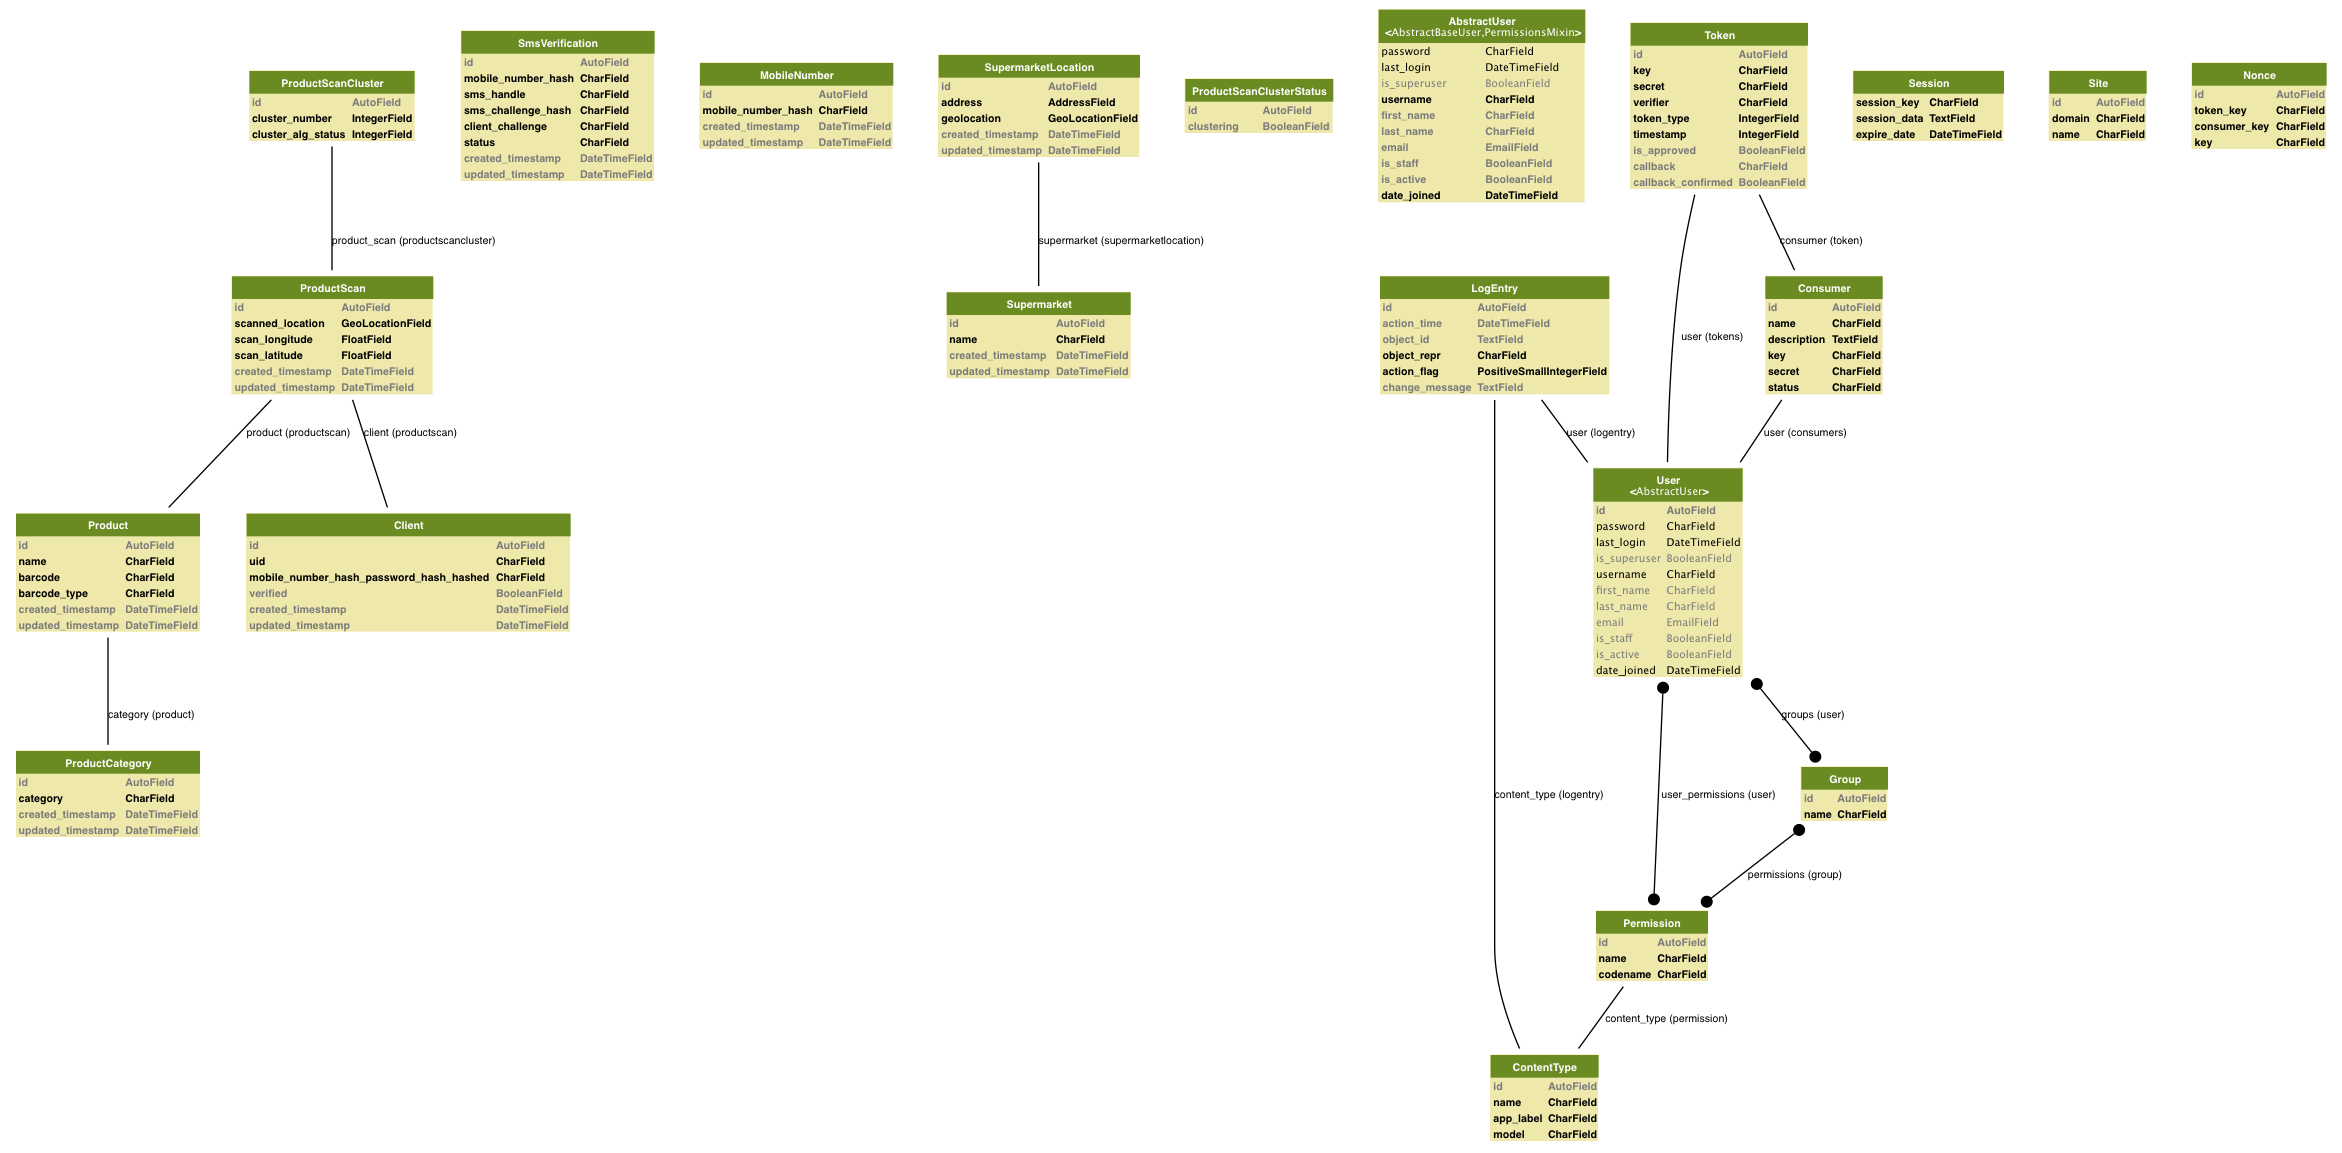
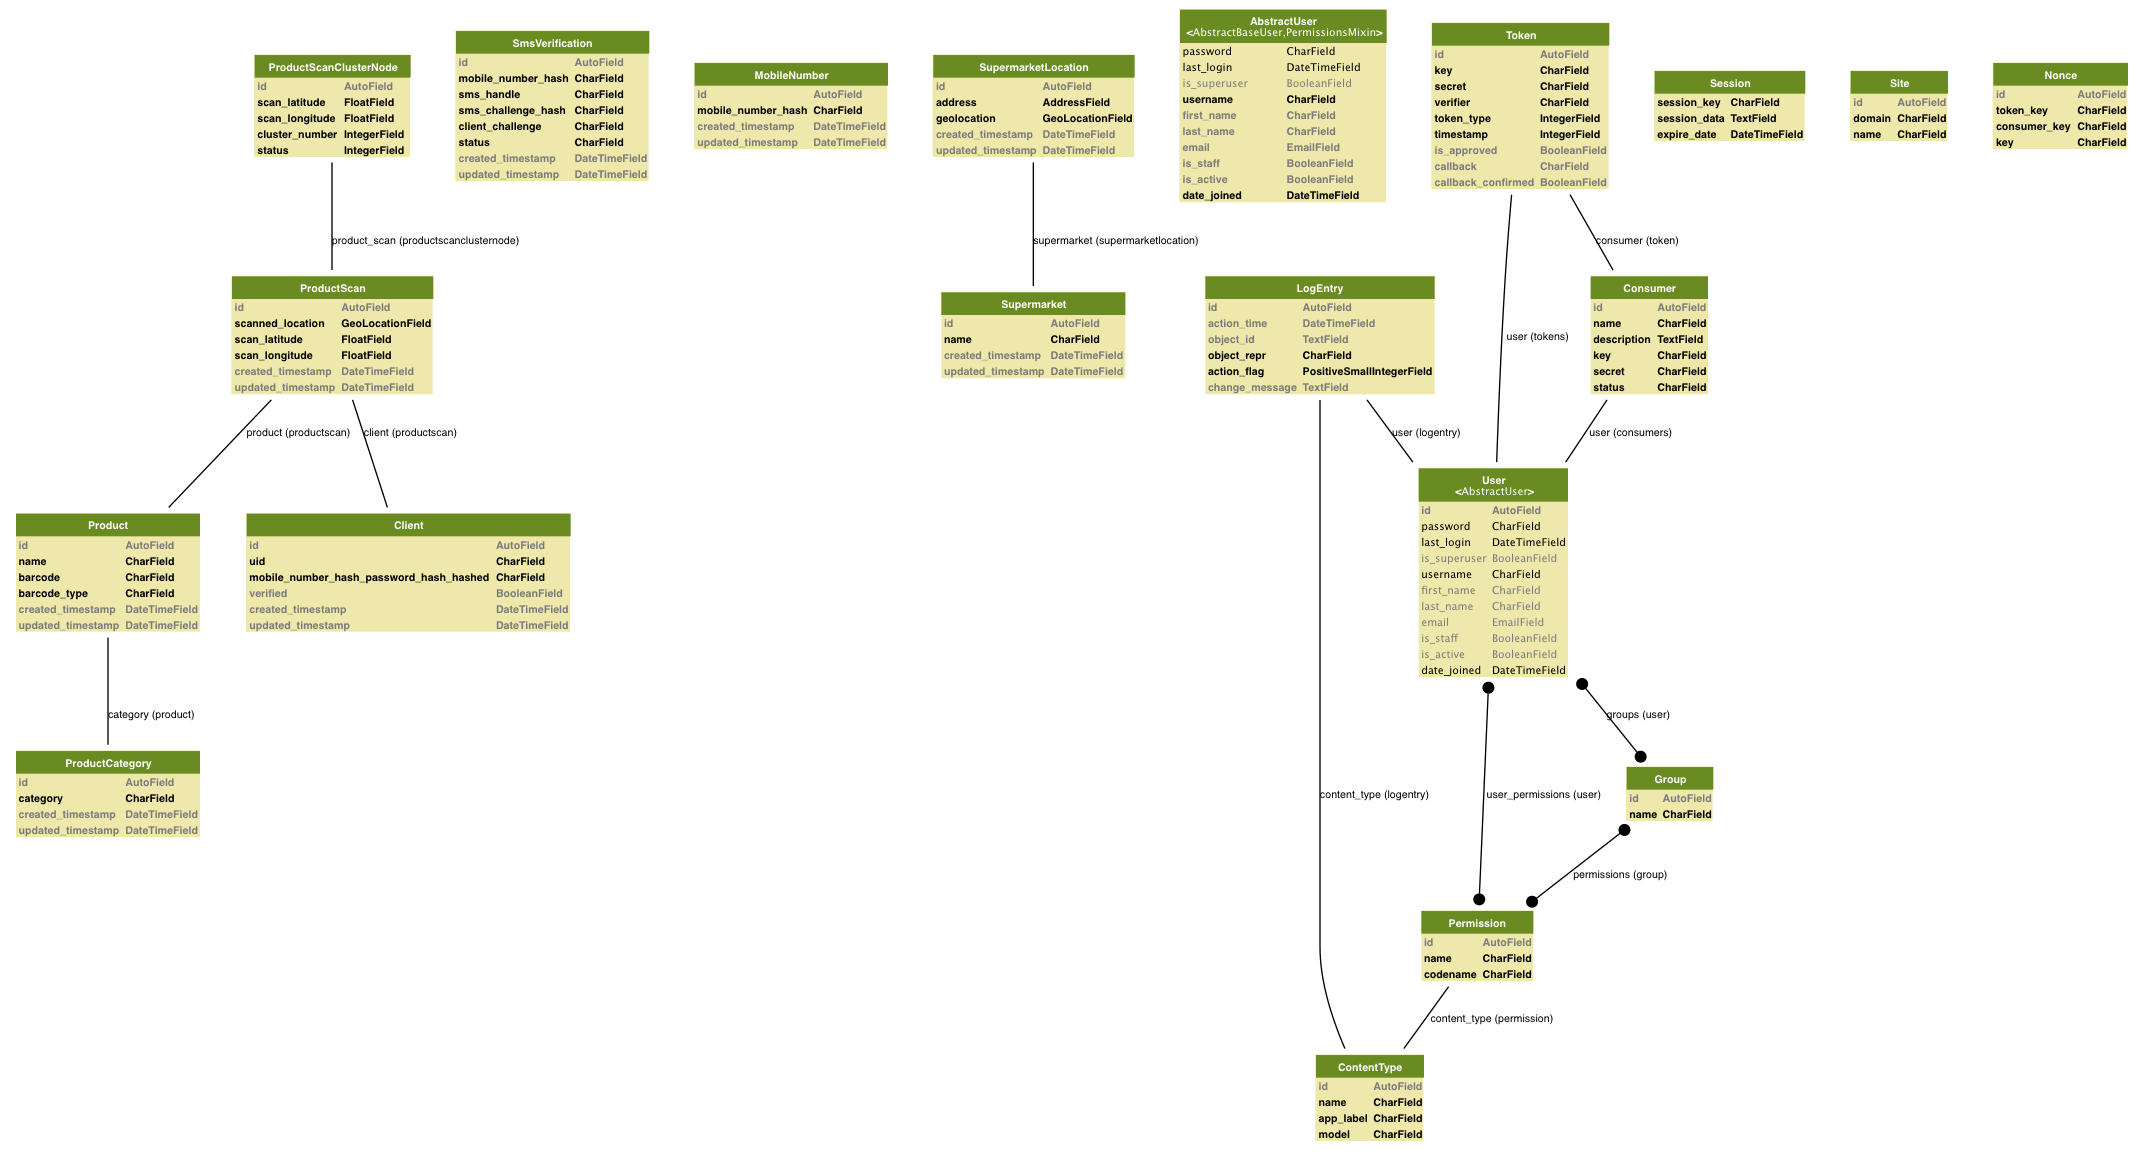
Clustering iteration

diff --git a/etiktak/model/products/models.py b/etiktak/model/products/models.py
@@ -25,6 +25,8 @@
 # (INCLUDING NEGLIGENCE OR OTHERWISE) ARISING IN ANY WAY OUT OF THE USE OF THIS
 # SOFTWARE, EVEN IF ADVISED OF THE POSSIBILITY OF SUCH DAMAGE.
 
+import math
+
 from django.db import models
 from django_google_maps import fields as map_fields
 
@@ -90,8 +92,8 @@ class Product(models.Model):
 class ProductScan(models.Model):
     product = models.ForeignKey(Product)
     scanned_location = map_fields.GeoLocationField(max_length=100)
-    scan_longitude = models.FloatField()
     scan_latitude = models.FloatField()
+    scan_longitude = models.FloatField()
     client = models.ForeignKey(clients.Client)
     created_timestamp = models.DateTimeField(auto_now_add=True)
     updated_timestamp = models.DateTimeField(auto_now=True)
@@ -107,7 +109,7 @@ class ProductScan(models.Model):
         scan = ProductScan(product=product, client=client, scanned_location=scan_latitude + ", " + scan_longitude,
                            scan_latitude=scan_latitude, scan_longitude=scan_longitude)
         scan.save()
-        ProductScanCluster.create_product_scan_cluster(product_scan=scan)
+        ProductScanClusterNode.create_product_scan_cluster_node(product_scan=scan)
         return scan
 
     def __unicode__(self):
@@ -119,28 +121,66 @@ class ProductScan(models.Model):
 
 
 
-CLUSTER_ALG_STATUS = util.enum(NOT_VISITED=0, VISITED=1, NOISE=2)
+CLUSTER_NODE_STATUS = util.enum(NOT_VISITED=0, VISITED=1, BEING_PROCESSED=2, NOISE=3)
 
-class ProductScanClusterStatus(models.Model):
-    clustering = models.BooleanField(default=False)
+NEIGHBORHOOD_EPSILON = 15.0
+NEIGHBORHOOD_MIN_DENSITY = 3
 
-class ProductScanCluster(models.Model):
+class ProductScanClusterNodeManager(models.Manager):
+    def get_next_node(self):
+        nodes = self.filter(status=CLUSTER_NODE_STATUS.NOT_VISITED)
+        if nodes is None or len(nodes) == 0:
+            return None
+        node = nodes[0]
+        node.status = CLUSTER_NODE_STATUS.BEING_PROCESSED
+        node.save()
+        return node
+
+    def get_neighborhood_nodes(self, node):
+        nodes = self.filter(scan_latitude__ge=node.scan_latitude - NEIGHBORHOOD_EPSILON,
+                            scan_latitude__le=node.scan_latitude - NEIGHBORHOOD_EPSILON,
+                            scan_longitude__ge=node.scan_longitude - NEIGHBORHOOD_EPSILON,
+                            scan_longitude__le=node.scan_longitude - NEIGHBORHOOD_EPSILON)
+        if nodes is None or len(nodes) == 0:
+            return []
+        density_nodes = []
+        for n in nodes:
+            if self.squared_distance_in_meters(node, n) <= NEIGHBORHOOD_EPSILON*NEIGHBORHOOD_EPSILON:
+                density_nodes.append(n)
+                if n.status is CLUSTER_NODE_STATUS.NOT_VISITED:
+                    n.status = CLUSTER_NODE_STATUS.BEING_PROCESSED
+                    n.save()
+        return density_nodes
+
+    def squared_distance_in_meters(self, n1, n2):
+        latitude_delta_meters = util.latitude_to_meters(n1.scan_latitude) -\
+                                util.latitude_to_meters(n2.scan_latitude)
+        longitude_delta_meters = util.longitude_to_meters(n1.scan_longitude, n1.scan_latitude) -\
+                                 util.longitude_to_meters(n2.scan_longitude, n2.scan_latitude)
+        return latitude_delta_meters*latitude_delta_meters + longitude_delta_meters*longitude_delta_meters
+
+class ProductScanClusterNode(models.Model):
     product_scan = models.ForeignKey(ProductScan)
+    scan_latitude = models.FloatField()
+    scan_longitude = models.FloatField()
     cluster_number = models.IntegerField()
-    cluster_alg_status = models.IntegerField()
+    status = models.IntegerField()
+
+    objects = ProductScanClusterNodeManager()
 
     @staticmethod
-    def create_product_scan_cluster(product_scan):
+    def create_product_scan_cluster_node(product_scan):
         """
         Creates and saves a product scan location cluster with initial cluster set to
         unknown.
         """
-        scan = ProductScanCluster(product_scan=product_scan, cluster_alg_status=CLUSTER_ALG_STATUS.NOT_VISITED, cluster_number=-1)
+        scan = ProductScanClusterNode(product_scan=product_scan, status=CLUSTER_NODE_STATUS.NOT_VISITED, cluster_number=-1,
+                                      scan_latitude=product_scan.scan_latitude, scan_longitude=product_scan.scan_longitude)
         scan.save()
         return scan
 
     def __unicode__(self):
-        return u"%s | %s" % (self.cluster_number, self.cluster_status)
+        return u"%s | %s | (%s, %s)" % (self.cluster_number, self.status, self.scan_latitude, self.scan_longitude)
 
     class Meta:
         verbose_name = u"Produktscanning"

diff --git a/features/steps/cluster_steps.py b/features/steps/cluster_steps.py
@@ -25,13 +25,20 @@
 # (INCLUDING NEGLIGENCE OR OTHERWISE) ARISING IN ANY WAY OUT OF THE USE OF THIS
 # SOFTWARE, EVEN IF ADVISED OF THE POSSIBILITY OF SUCH DAMAGE.
 
+import random
+
 from features import api_handler
 from features.steps import user_steps
 from features.steps import sms_steps
 from features.steps import user_verification_steps
+from features.steps import product_steps
+
 from etiktak.util import clustering
+from etiktak.util import util
+from etiktak.model.products import models as products
 
 from lettuce import step
+from lettuce import world
 
 @step(u'Given I simulate that a user has scanned products in three supermarkets')
 def given_i_simulate_that_a_user_has_scanned_products_in_three_supermarkets(step):
@@ -39,6 +46,7 @@ def given_i_simulate_that_a_user_has_scanned_products_in_three_supermarkets(step
     user_verification_steps.and_I_check_that_a_challenge_has_been_created_in_the_database(None)
     sms_steps.and_i_simulate_that_an_sms_has_been_successfully_sent(None)
     user_verification_steps.then_i_can_verify_the_user(None)
+    create_product_scans(10, 56.08, 10.11)
 
 @step(u'And I start the clustering algorithm')
 def and_i_start_the_clustering_algorithm(step):
@@ -48,3 +56,12 @@ def and_i_start_the_clustering_algorithm(step):
 @step(u'Then the product scans have been clustered in three clusters')
 def then_the_product_scans_have_been_clustered_in_three_clusters(step):
     assert False, 'This step must be implemented'
+
+
+
+def create_product_scans(count, latitude_center, longitude_center):
+    product = product_steps.create_random_product()
+    for i in range(1, count):
+        latitude = latitude_center + (random.random() * util.meters_to_latitude(products.NEIGHBORHOOD_EPSILON))
+        longitude = longitude_center + (random.random() * util.meters_to_longitude(products.NEIGHBORHOOD_EPSILON, latitude))
+        api_handler.create_product_scan(world.mobile_number, world.password, world.client_uid, product.barcode, products.BARCODE_TYPES.EAN13, str(latitude), str(longitude))

diff --git a/etiktak/util/clustering.py b/etiktak/util/clustering.py
@@ -29,28 +29,8 @@ from etiktak.model.products import models as products
 
 class Clustering:
     def start(self):
-        if self.is_clustering():
-            return
-        self.mark_clustering_started()
         print "Clustering started!\n"
-        self.mark_clustering_stopped()
+        node = self.emit_node()
 
-    def is_clustering(self):
-        return self.get_clustering_status().clustering
-
-    def mark_clustering_started(self):
-        status = self.get_clustering_status()
-        status.clustering = True
-        status.save()
-
-    def mark_clustering_stopped(self):
-        status = self.get_clustering_status()
-        status.clustering = False
-        status.save()
-
-    def get_clustering_status(self):
-        status = products.ProductScanClusterStatus.objects.all()
-        if status.count() == 0:
-            return products.ProductScanClusterStatus(clustering=False)
-        else:
-            return status[0]
+    def emit_node(self):
+        return products.ProductScanClusterNode.objects.get_next_node()

diff --git a/etiktak/util/util.py b/etiktak/util/util.py
@@ -23,6 +23,8 @@
 # (INCLUDING NEGLIGENCE OR OTHERWISE) ARISING IN ANY WAY OUT OF THE USE OF THIS
 # SOFTWARE, EVEN IF ADVISED OF THE POSSIBILITY OF SUCH DAMAGE.
 
+import math
+
 def getRequiredParam(request, param):
     value = request.GET.get(param)
     assert value is not None, "Missing request parameter: %s'" % param
@@ -40,3 +42,18 @@ def cachedClassMethod(dictionary):
             return dictionary[key]
         return check_cache
     return cached_decorator
+
+def meters_to_latitude(meters):
+    return meters / 111111.0
+
+def meters_to_longitude(meters, latitude):
+    return meters / (111111.0 * math.cos(latitude * math.pi / 180.0))
+
+def meters_to_aprox_longitude(meters):
+    return meters_to_longitude(meters, 56.0)
+
+def latitude_to_meters(latitude):
+    return latitude * 111111
+
+def longitude_to_meters(longitude, latitude):
+    return longitude * 111111 * math.cos(latitude * math.pi / 180.0)

diff --git a/etiktak/service/product_service.py b/etiktak/service/product_service.py
@@ -34,4 +34,4 @@ def create_product_scan(mobile_number, password, uid, barcode, barcode_type, sca
     assert client_by_password.uid == client_by_uid.uid, "Incorrect credentials provided"
     product = products.Product.objects.get(barcode=barcode, barcode_type=barcode_type)
     products.ProductScan.create_product_scan(product, client_by_uid, scan_latitude, scan_longitude)
-    print "Created product location for mobile number: %s and barcode: %s (%s)\n" % (mobile_number, barcode, barcode_type)
+    print "Created product location for mobile number: %s, barcode: %s (%s) and coordinates (%s, %s)\n" % (mobile_number, barcode, barcode_type, scan_latitude, scan_longitude)
